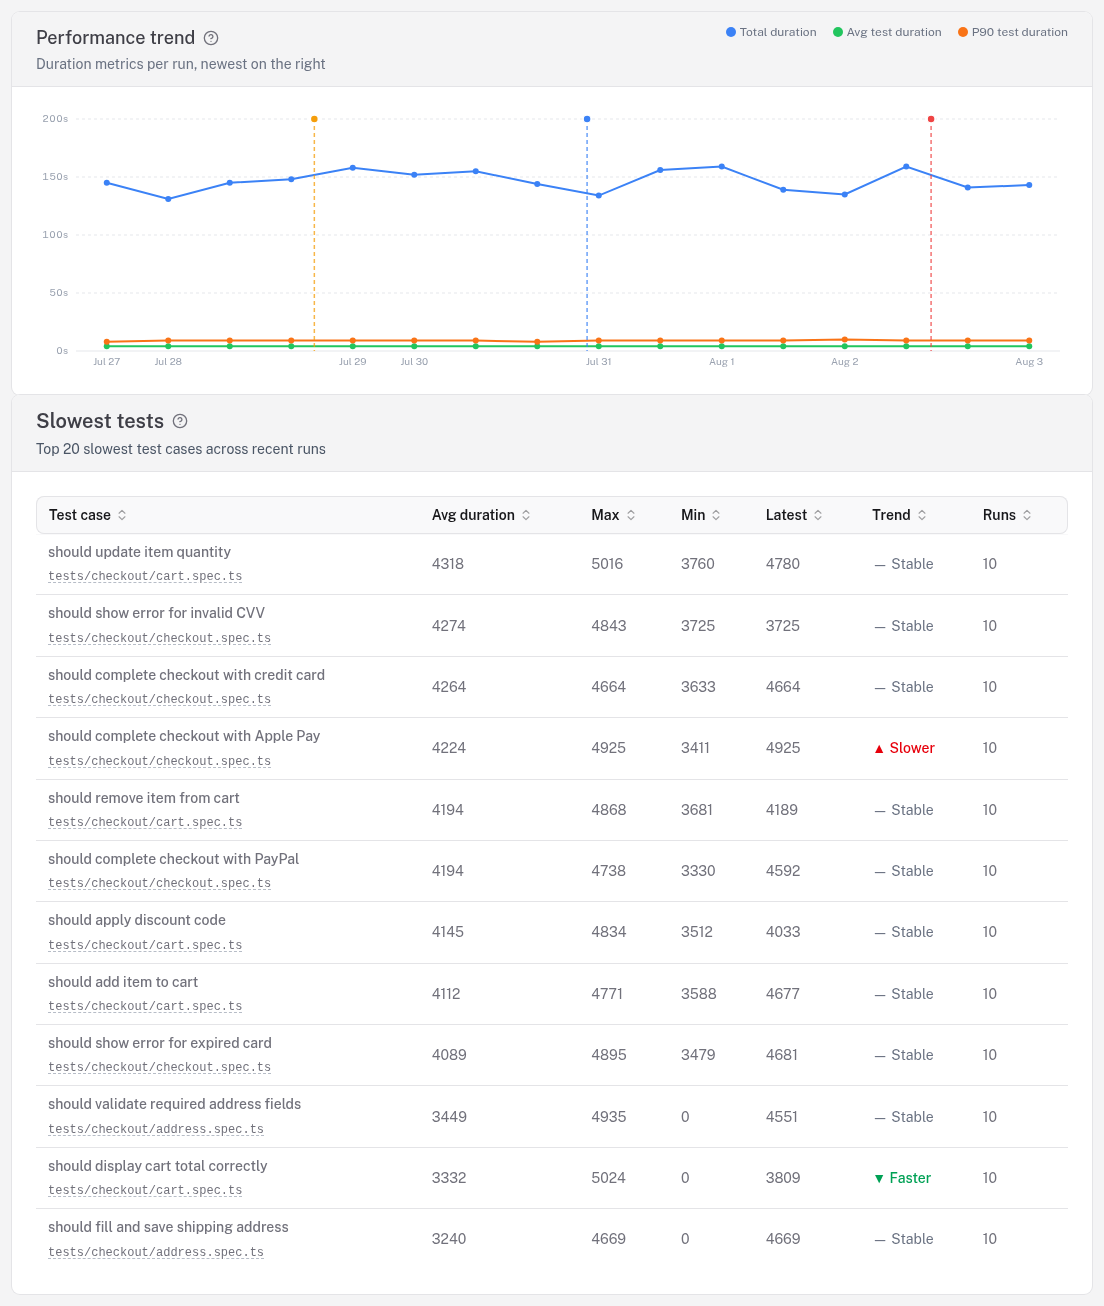
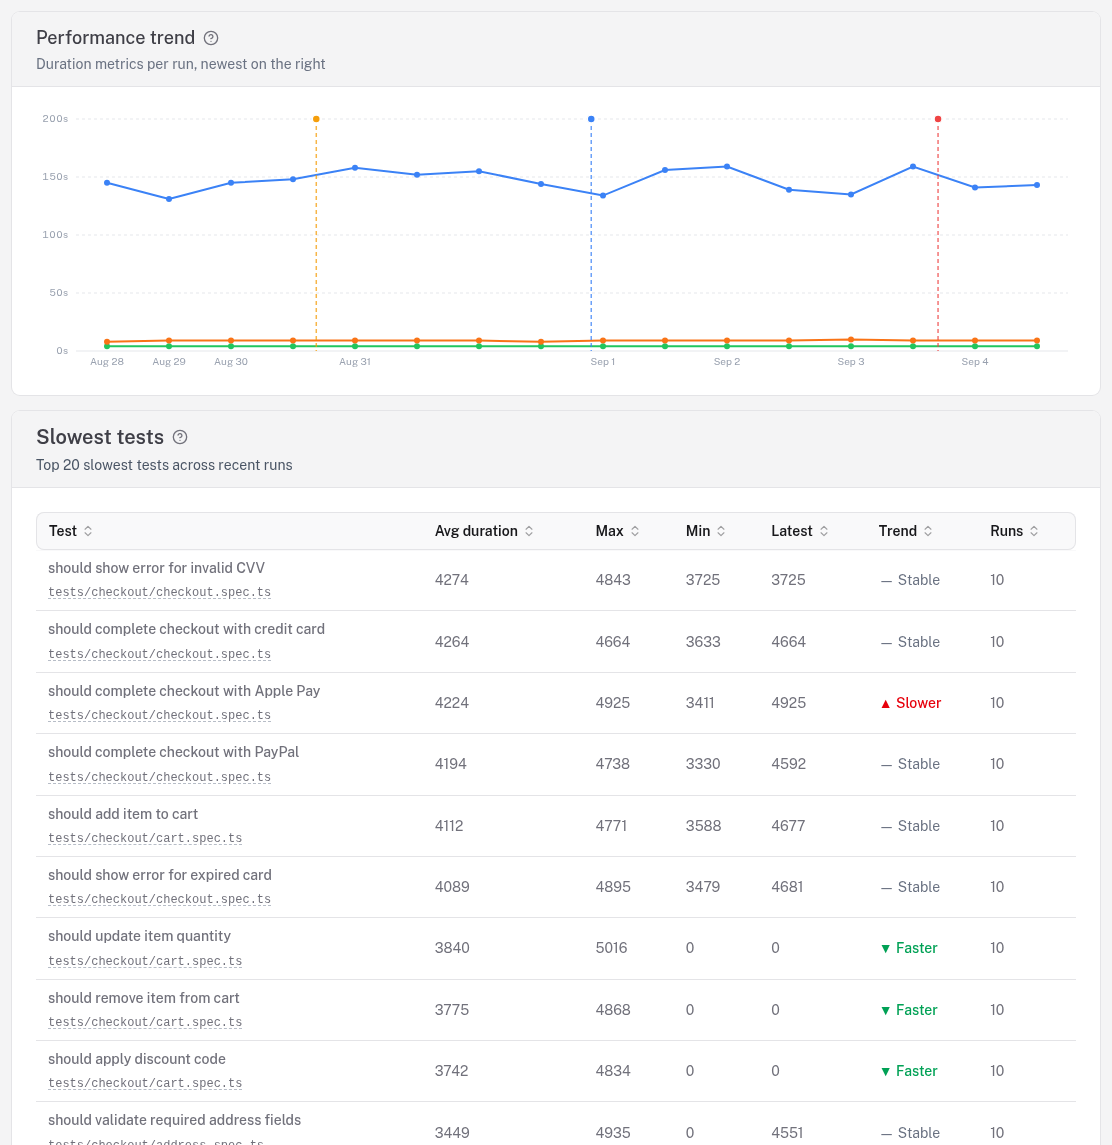
docs(ui): rewrite the project detail sections and regenerate screenshots
Claude-Session: https://claude.ai/code/session_014zzKxUpuC7jWGfroreACMS

diff --git a/apps/docs/ui-overview.md b/apps/docs/ui-overview.md
@@ -75,19 +75,15 @@ The primary hub: instant **text search**, **tag filters**, and a table showing e
 
 ## Project detail
 
-The complete history for one project, organized into tabs:
+The complete history for one project. The header states the project's condition on entry — a **status line** with the latest run and its age, the pass rate over the last 20 runs, and the open clusters, flaky and quarantined counts, each a link to the tab that holds it. One **filter bar** (environment, branch, full-runs-only) scopes every list on the page and is remembered per project. The navbar keeps the notification bell and **Import** (admins); **Edit**, **Test functions**, **Selections**, **Delete** and **Refresh** live in a **More** menu.
 
-- **Test runs** — every run with status, start time, duration, test counts, and browser badges; select two runs to compare. Runs with a shared failure signature roll up into **Failure clusters** here (see [AI diagnosis & clustering](./ai-diagnosis)).
-- **Flaky tests** — intermittent tests scored by a composite flakiness metric, with root-cause classification and impact ranking. See [Flaky tests](./flaky-tests#flaky-test-detection).
-- **Performance** — average/P90 duration trends and a slowest-tests table. See [Performance](./flaky-tests#performance).
-- **Test cases** — every unique test with status, executed-only pass rate, result breakdown, average duration, and last run; searchable, filterable by status, [tag](./reporter#test-tags), owner, priority and last-run age (stale cases hidden by default), paginated, with flat and per-spec tree views.
-- **Compare** — side-by-side delta between two runs (new failures, recovered, duration changes).
-- **Spec health** — a heatmap grouping test cases by spec file and coloring each by pass rate, so an unhealthy area of the suite jumps out. See [Spec health heatmap](./flaky-tests#spec-health-heatmap).
-- **Quarantine** — tests excluded from the [CI gate](./ci#blocking-a-merge)'s verdict while still running, each with its passing streak and whether it has earned a release, plus the debt the list represents. See [Quarantine](./flaky-tests#quarantine-with-a-way-out).
-- **AI steps** — liveness for the committed [AI-step artifacts](./ai-steps) this project replays: which prompts are exercised by recent runs, and which have gone dormant.
-- **Members** *(admins, when auth is enabled)* — grant or scope project access per user. See [Project access](./authentication#project-access).
+Five tabs:
 
-Project **edit** (`/projects/:id/edit`) sets the label, description, tags, per-project SCM token, and **AI diagnosis instructions** (project-specific context combined with the global instructions for every diagnosis).
+- **Runs** — the run trend chart (timeline **Markers** open in a slide-over from the chart header, where they can be added, edited and deleted) over a table of every run with status, start time, duration, test counts, and browser badges. A row opens the run; selecting two runs and clicking **Compare** opens the newer run's **Changes** tab with the older as its baseline.
+- **Tests** — every unique test with status, executed-only pass rate, result breakdown, average duration, and last run; searchable, filterable by status, [tag](./reporter#test-tags), owner, priority and last-run age (stale cases hidden by default). **Group by File** groups the tests under each spec file and carries that file's pass rate, flaky rate, failure count, test count and average time in the group header. A row opens the test's full history.
+- **Failures** — one place for everything broken, switched with a segmented control: the **Failure clusters** (executions that failed the same way — see [AI diagnosis & clustering](./ai-diagnosis)), the **Flaky** tests scored by a composite flakiness metric with root-cause classification and impact ranking (see [Flaky tests](./flaky-tests#flaky-test-detection)), each with a **Quarantine** action, and the **Quarantine** list — tests excluded from the [CI gate](./ci#blocking-a-merge)'s verdict while still running, each with its passing streak and whether it has earned a release. See [Quarantine](./flaky-tests#quarantine-with-a-way-out).
+- **Performance** — average/P90 duration trends, a slowest-tests table, timeout opportunities, and the [slow endpoints](./flaky-tests#performance) for a selected run; the AI-step coverage card appears when the project replays committed [AI-step artifacts](./ai-steps).
+- **Settings** *(admins when auth is enabled, otherwise everyone)* — project [access](./authentication#project-access) (members) and the edit form: label, description, tags, default branch, per-project SCM token, and **AI diagnosis instructions** (project-specific context combined with the global instructions for every diagnosis).
 
 Project **import** (`/projects/:id/import`, admins only) backfills runs recorded before you adopted Piwi from Playwright blob reports, checking each archive against the server's size limit and the project's existing imports before uploading anything. See [Importing past runs](./importing-runs).
 

diff --git a/apps/docs/flaky-tests.md b/apps/docs/flaky-tests.md
@@ -19,13 +19,13 @@ A test is flaky when its result isn't deterministic. Piwi computes a **composite
 - **Status alternation** — flips between pass and fail across runs.
 - **Failure rate** — overall proportion of failures.
 
-Each project has a dedicated **Flaky tests** tab with a **configurable lookback window** so you can focus on recent behavior or a longer baseline.
+The project's **Failures** tab has a **Flaky** view with a **configurable lookback window** so you can focus on recent behavior or a longer baseline. Each flaky test links to its history and carries a **Quarantine** action.
 
-**Per-environment scoping** — select a single environment in the project's environment filter and the flaky analysis is scoped to runs from that environment, so you can compare stability across `staging`, `production`, and `development` instead of blending them. (Set the environment via the reporter's `environment` option / `PIWI_ENVIRONMENT`; see the [reporter](./reporter) docs.)
+**Per-environment scoping** — select a single environment in the project's filter bar and the flaky analysis is scoped to runs from that environment, so you can compare stability across `staging`, `production`, and `development` instead of blending them. (Set the environment via the reporter's `environment` option / `PIWI_ENVIRONMENT`; see the [reporter](./reporter) docs.)
 
 <figure>
   <img src="/screenshots/flaky-detection.png" alt="Flaky tests tab listing tests with composite score, failure rate, retry passes, and flip counts">
-  <figcaption>The Flaky tests tab — each intermittent test scored by retry passes, status flips, and failure rate, ranked by impact and filterable by root-cause category.</figcaption>
+  <figcaption>The Flaky view of a project's Failures tab — each intermittent test scored by retry passes, status flips, and failure rate, ranked by impact and filterable by root-cause category.</figcaption>
 </figure>
 
 ### Root-cause classification
@@ -93,7 +93,7 @@ verdict and nothing else. That single difference is what makes the exit possible
 The gate always states how many failures quarantine excluded — a green gate that silently ignored failures would be
 worthless — and `--max-quarantined` sets a ceiling so the list can't grow unbounded.
 
-Manage it from the project's **Quarantine** tab, or over the API (`GET`/`POST /api/projects/:id/quarantine`,
+Manage it from the **Quarantine** view of the project's **Failures** tab, or over the API (`GET`/`POST /api/projects/:id/quarantine`,
 `DELETE /api/projects/:id/quarantine/:testCaseId`).
 
 ## Regression signals
@@ -112,8 +112,7 @@ Opening a failing execution surfaces the same signals in its **Verdict** card (s
 - **Duration trends** — average and **P90** over time, so a few slow outliers don't hide a real regression.
 - **Slowest tests** — the top offenders ranked by duration.
 - **Timeout opportunities** — tests whose configured per-test timeout dwarfs their real p95 duration (so a hang or failure waits far longer than necessary), plus tests still carrying a stale `test.slow()` mark they no longer need. Each row suggests a tighter timeout (or removing the mark) and the time reclaimable per failing run, ranked by impact. This relies on the per-test timeout the [reporter](./reporter#per-test-timeout) captures; runs reported before that shipped still surface stale `test.slow()` marks from annotations + durations alone. Thresholds are tunable via `PUT /api/settings/timeout-hygiene`.
-- **Run comparison** — a side-by-side delta of two runs with improved / regressed / unchanged summaries.
-- **Network analysis** — slow API calls grouped by method and normalized route (e.g. `/api/users/:id`).
+- **Network analysis** — slow API calls grouped by method and normalized route (e.g. `/api/users/:id`), for a run picked from the tab.
 - **Browser Web Vitals** — TTFB, DOMContentLoaded, FCP and more, with color-coded thresholds.
 
 Network analysis and Web Vitals require the [capture fixtures](./capture-fixtures) in your test setup.
@@ -125,7 +124,7 @@ Network analysis and Web Vitals require the [capture fixtures](./capture-fixture
 
 ## Spec health heatmap
 
-A project-level overview groups test cases by spec file and colors each by pass rate, so an unhealthy area of the suite jumps out. Cells link straight to the filtered test-case list.
+The project's **Tests** tab has a **Group by File** view that groups the tests under each spec file and carries that file's pass rate, flaky rate, failure count, test count and average time in the group header, so an unhealthy area of the suite jumps out.
 
 ## Across every project
 
